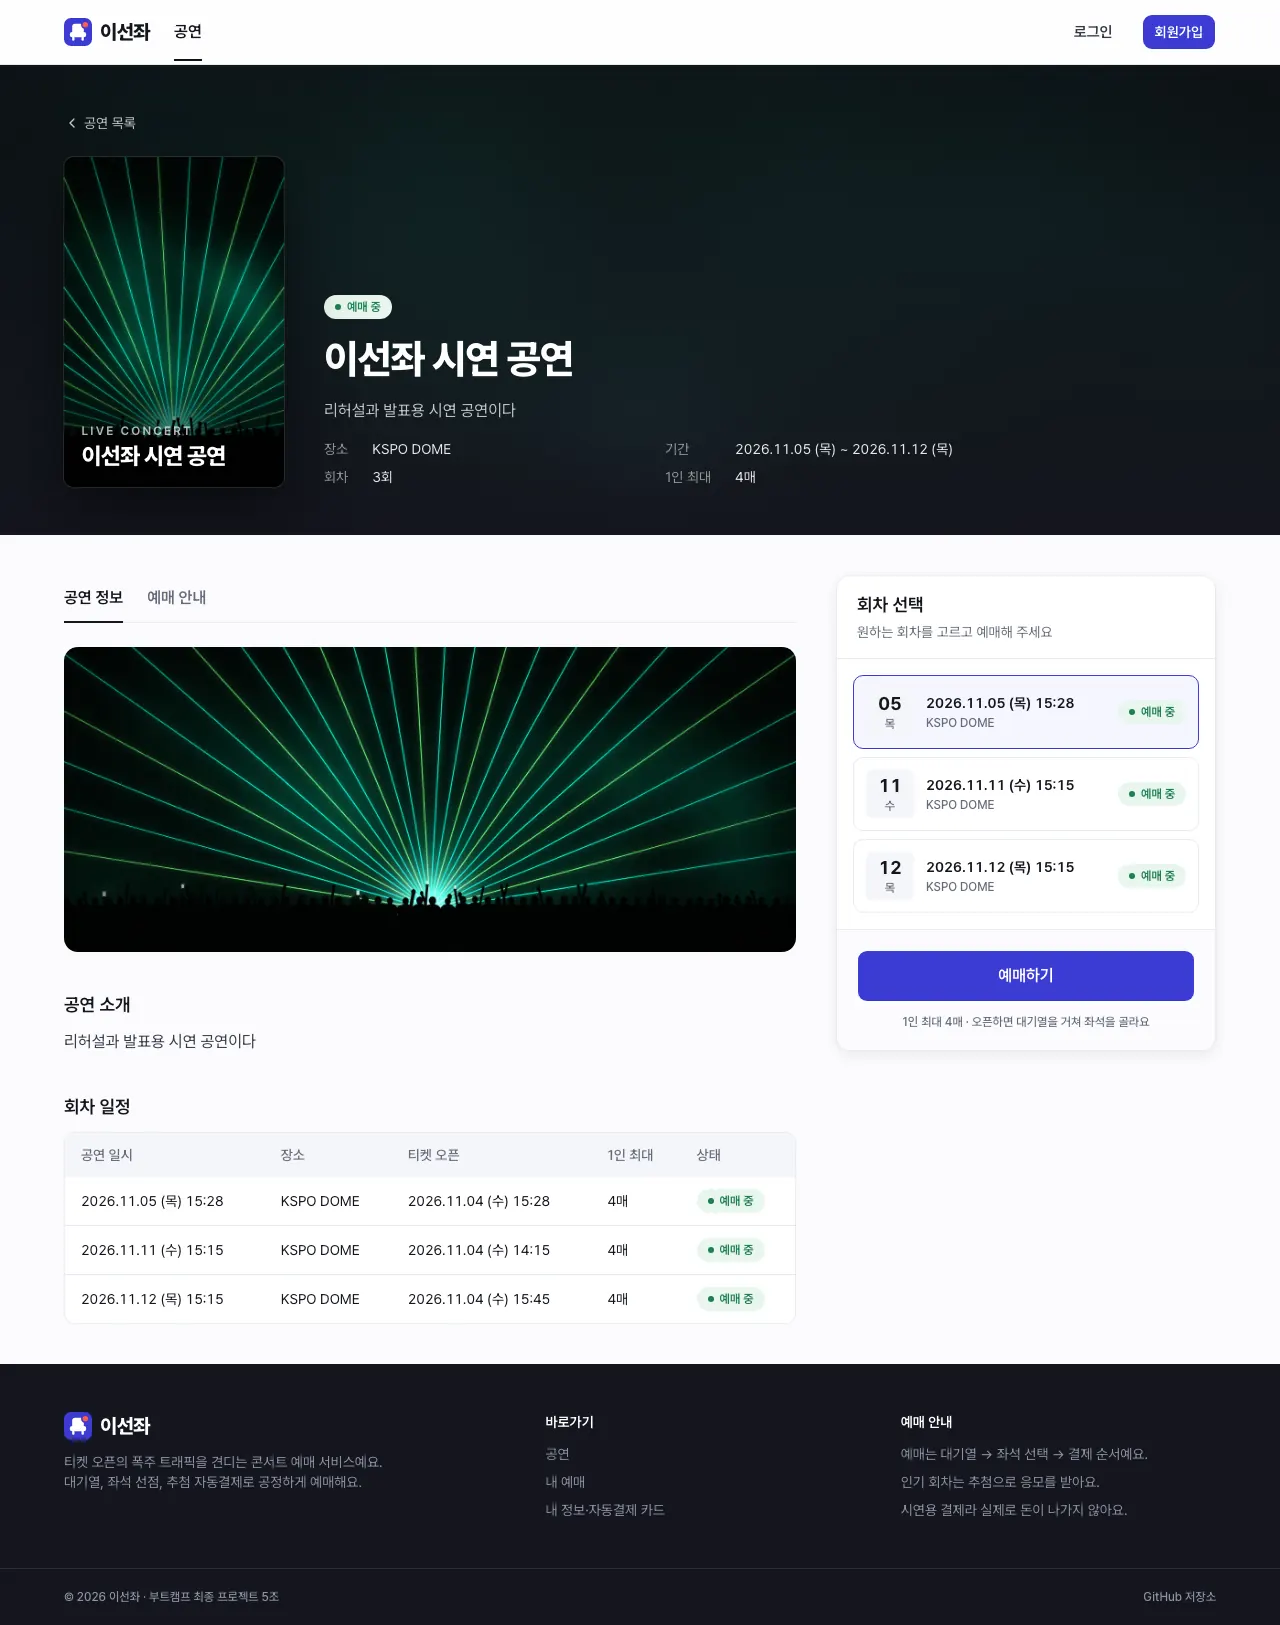
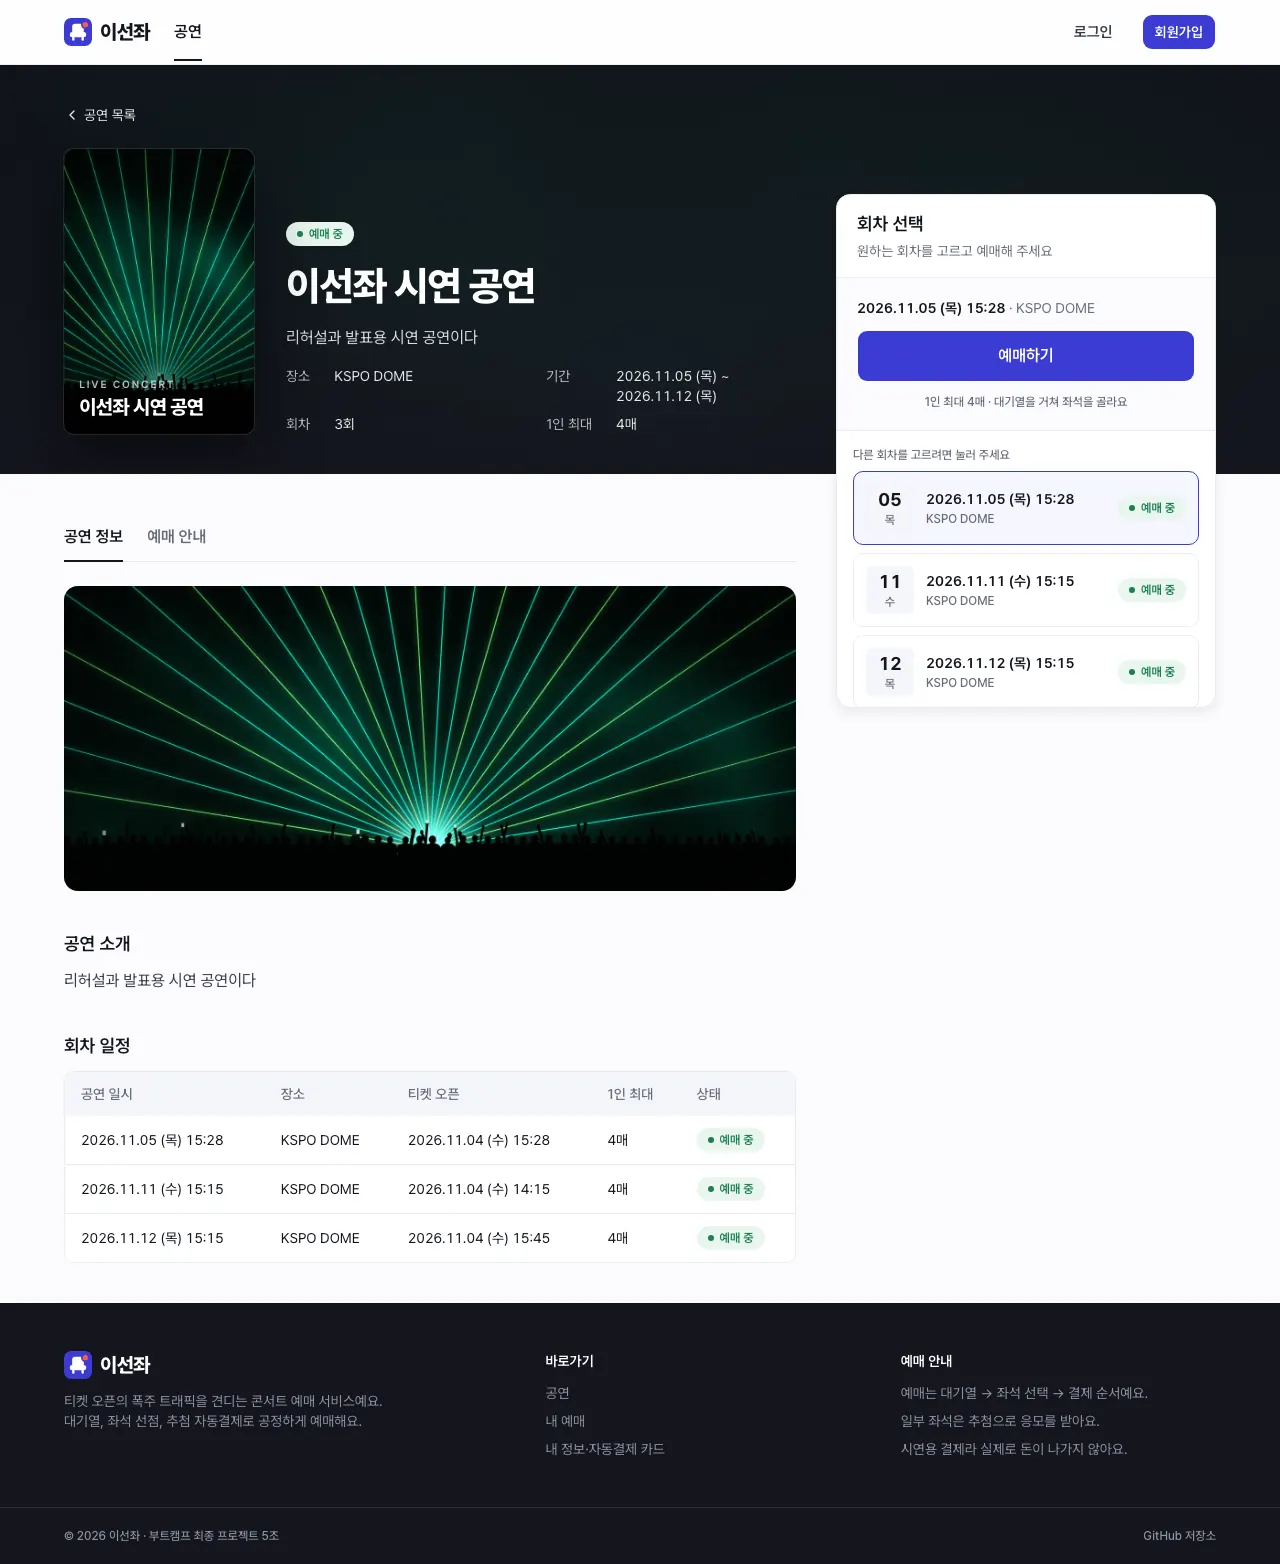
docs(frontend): 셀프 리뷰 반영 뒤 화면 캡처와 컨테이너 메모리 측정을 새로 함 #ISE-187

diff --git a/docs/design/frontend/design-system.md b/docs/design/frontend/design-system.md
@@ -288,7 +288,7 @@ PC를 먼저 맞춘다(P1은 퇴근 후 PC로 대기한다). 본문 최대 폭 1
 - 그림은 번들에 들어가 `/assets/`에서 해시 이름과 1년 immutable 캐시로 내려간다(nginx `location /assets/`). 외부 이미지·CDN을 쓰지 않아 배포 서버(http 공개 IP)에서도 같은 그림이 보인다. 나중에 CSP를 더해도 `img-src 'self'`로 충분하다.
 - 첫 배너 그림만 `fetchpriority="high"`로 먼저 받는다. 목록 포스터와 대표 배너 포스터는 `loading="lazy"`(좁은 화면에서 숨긴 배너 포스터는 받지 않는다)이고, 공연 상세 배너 포스터만 첫 화면이라 `eager`다. 모든 `img`에 `width`·`height`를 둬 받는 동안 자리가 밀리지 않는다.
 - 대표 배너는 지금 장과 다음 장의 그림만 받고, 넘기면 그다음 장 그림을 받는다(한 번 받은 그림은 남긴다).
-- 측정(이 브랜치로 만든 프로덕션 nginx 이미지, 캐시 끔): 홈은 1280px에서 WebP 9장 174KB, 375px에서 8장 163KB다. 공연 상세는 2장 100KB다. `image/webp` 형식과 캐시 헤더로 내려오고, 컨테이너 메모리는 10.3MiB다(제한 64MiB).
+- 측정(이 브랜치로 만든 프로덕션 nginx 이미지, 캐시 끔): 홈은 1280px에서 WebP 9장 174KB, 375px에서 8장 163KB다. 공연 상세는 2장 100KB다. `image/webp` 형식과 캐시 헤더로 내려오고, 컨테이너 메모리는 약 11MiB다(제한 64MiB).
 
 ## 9. 확정한 방향
 

diff --git a/docs/ai-judgments/junhyun/2026-11-05-frontend-service-like-layout.md b/docs/ai-judgments/junhyun/2026-11-05-frontend-service-like-layout.md
@@ -34,7 +34,7 @@ shared: 예
 - 남은 화면(내 예매, 내 정보, 추첨, 인증, 운영자)은 후속 이슈로 이어서 바꾼다.
 
 ## 검증
-- 이 브랜치로 만든 프로덕션 nginx 이미지에서 확인했다. 그림은 `image/webp`·1년 immutable 캐시로 내려오고, 홈 그림은 174KB(1280px), 컨테이너 메모리는 10.3MiB다.
+- 이 브랜치로 만든 프로덕션 nginx 이미지에서 확인했다. 그림은 `image/webp`·1년 immutable 캐시로 내려오고, 홈 그림은 174KB(1280px), 컨테이너 메모리는 약 11MiB다.
 - 로컬 compose 백엔드로 홈·공연 상세를 1280px·375px에서 확인했고 가로 넘침이 없었다.
 
 ## 판단 이력
